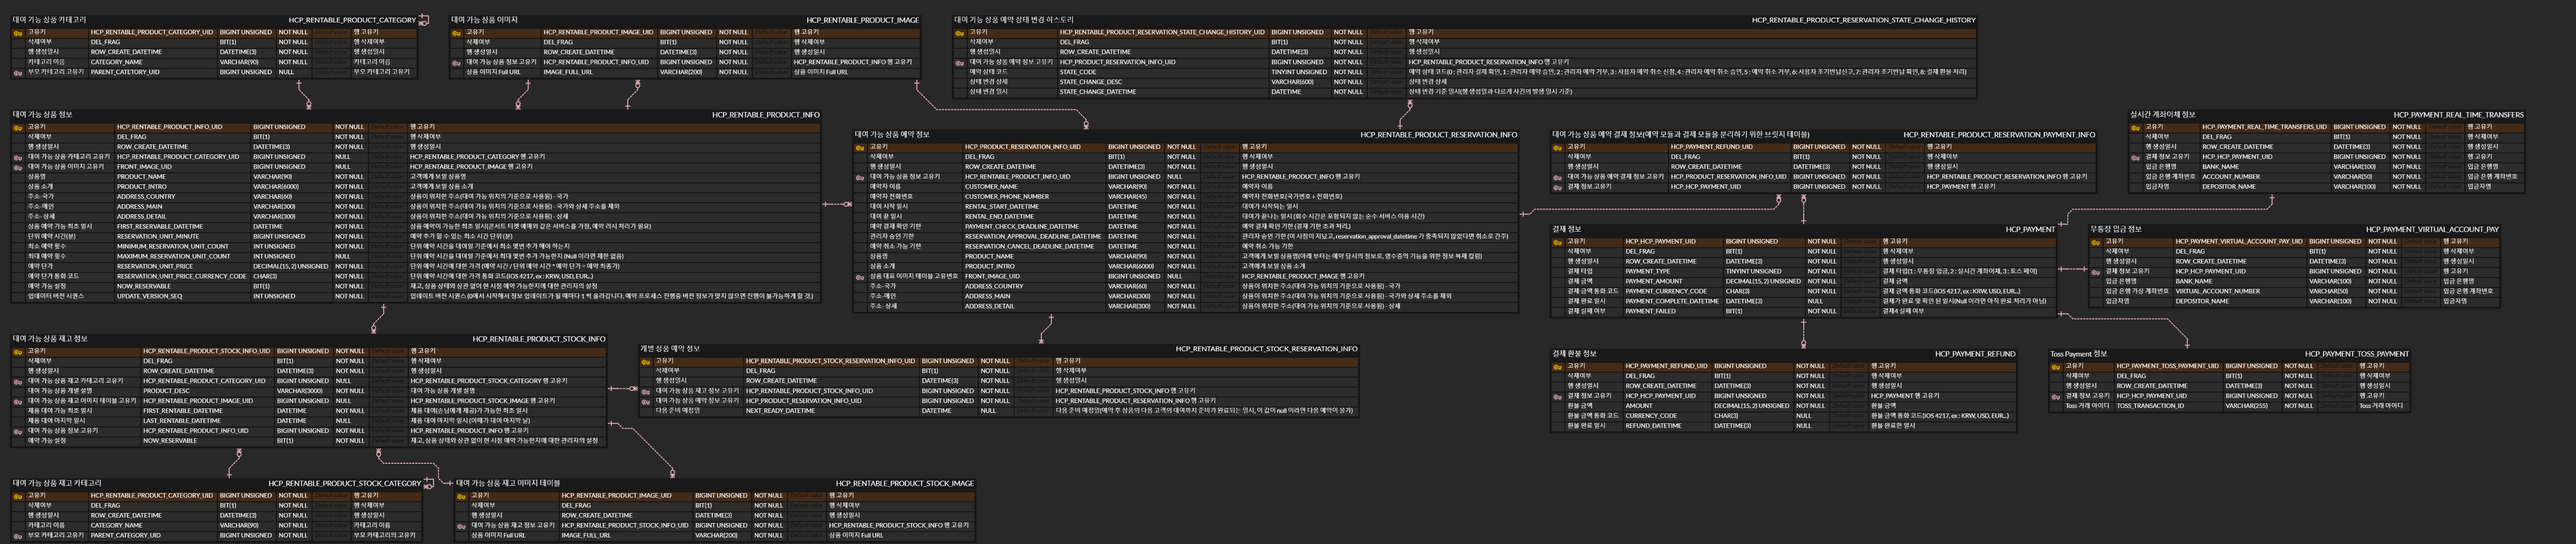
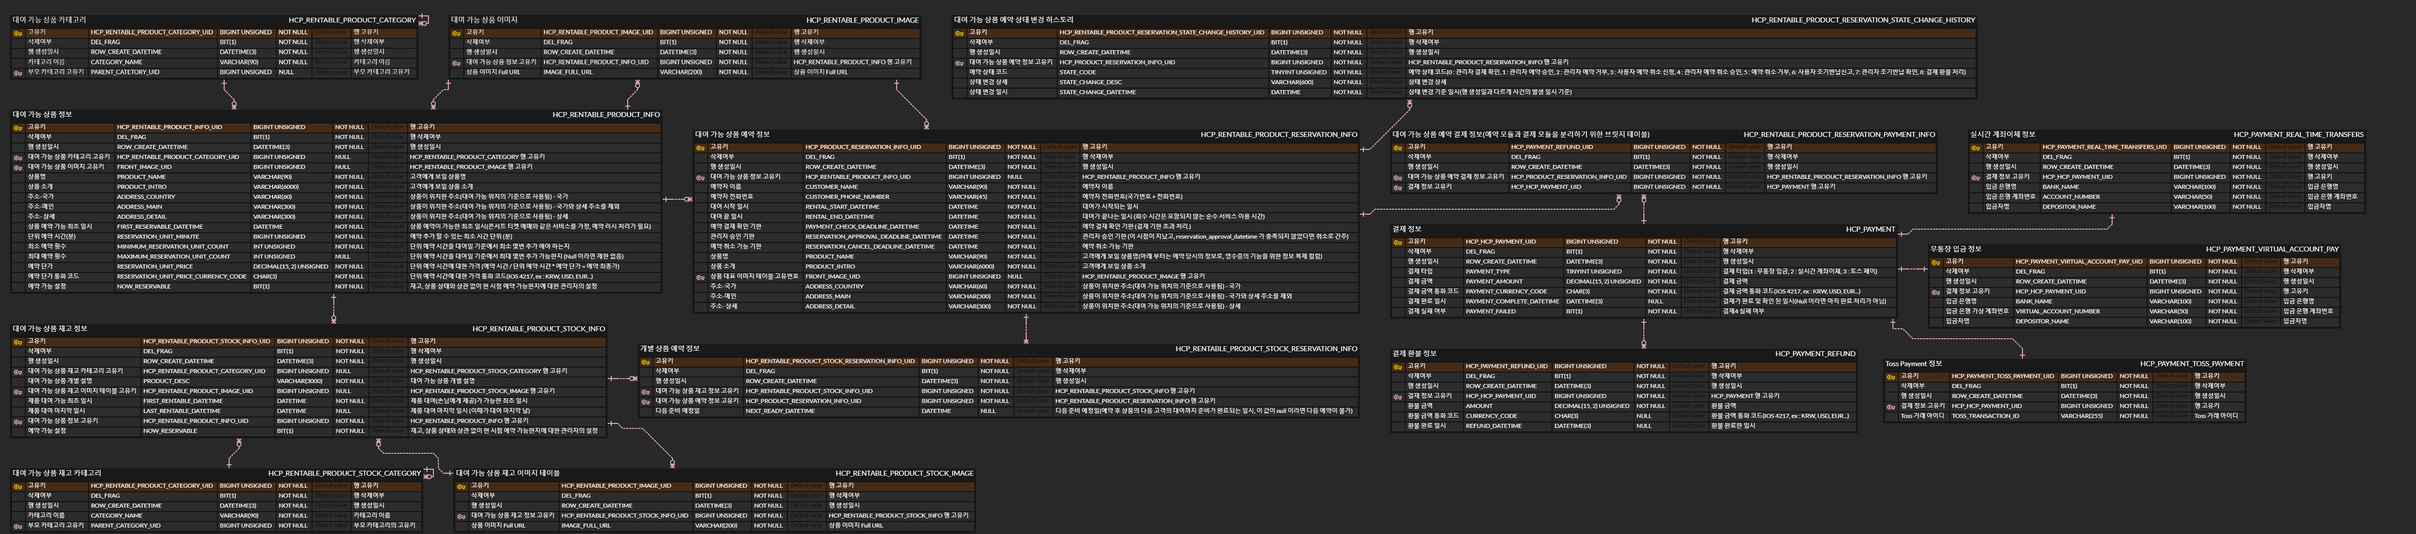
update : 예약 product info 에서 수정 버전 정보 제거(공유락으로 해결하기)

diff --git a/module-service-rental-reservation/src/main/kotlin/com/raillylinker/module_service_rental_reservation/controllers/RentalReservationAdminController.kt b/module-service-rental-reservation/src/main/kotlin/com/raillylinker/module_service_rental_reservation/controllers/RentalReservationAdminController.kt
@@ -402,6 +402,7 @@ class RentalReservationAdminController(
     )
 
 
+    // todo : reservation race condition 처리
     // ----
     @Operation(
         summary = "대여 가능 상품 수정 <ADMIN>",
@@ -559,6 +560,7 @@ class RentalReservationAdminController(
     }
 
 
+    // todo : reservation race condition 처리
     // ----
     @Operation(
         summary = "대여 가능 상품 삭제 <ADMIN>",
@@ -617,6 +619,7 @@ class RentalReservationAdminController(
     }
 
 
+    // todo : reservation race condition 처리
     // ----
     @Operation(
         summary = "대여 가능 상품 추가 예약 가능 설정 수정 <ADMIN>",
@@ -693,6 +696,7 @@ class RentalReservationAdminController(
     )
 
 
+    // todo : reservation race condition 처리
     // ----
     @Operation(
         summary = "대여 가능 상품 최소 예약 횟수 설정 수정 <ADMIN>",
@@ -770,6 +774,7 @@ class RentalReservationAdminController(
     )
 
 
+    // todo : reservation race condition 처리
     // ----
     @Operation(
         summary = "대여 가능 상품 최대 예약 횟수 설정 수정 <ADMIN>",
@@ -1422,6 +1427,7 @@ class RentalReservationAdminController(
     )
 
 
+    // todo : reservation race condition 처리
     // ----
     @Operation(
         summary = "대여 가능 상품 재고 삭제 <ADMIN>",
@@ -1480,6 +1486,7 @@ class RentalReservationAdminController(
     }
 
 
+    // todo : reservation race condition 처리
     // ----
     @Operation(
         summary = "대여 가능 상품 재고 수정 <ADMIN>",
@@ -1592,6 +1599,7 @@ class RentalReservationAdminController(
     )
 
 
+    // todo : reservation race condition 처리
     // ----
     @Operation(
         summary = "대여 가능 상품 재고 추가 예약 가능 설정 수정 <ADMIN>",
@@ -2650,6 +2658,7 @@ class RentalReservationAdminController(
     )
 
 
+    // todo : reservation race condition 처리
     // ----
     @Operation(
         summary = "개별 상품 예약 정보 다음 준비 예정일 수정 <ADMIN>",

diff --git a/module-service-rental-reservation/src/main/kotlin/com/raillylinker/module_service_rental_reservation/jpa_beans/db1_main/entities/Db1_RaillyLinkerCompany_RentableProductInfo.kt b/module-service-rental-reservation/src/main/kotlin/com/raillylinker/module_service_rental_reservation/jpa_beans/db1_main/entities/Db1_RaillyLinkerCompany_RentableProductInfo.kt
@@ -97,11 +97,6 @@ class Db1_RaillyLinkerCompany_RentableProductInfo(
     @Comment("행 삭제일(yyyy_MM_dd_T_HH_mm_ss_SSS_z, 삭제되지 않았다면 /)")
     var rowDeleteDateStr: String = "/"
 
-    @Column(name = "update_version_seq", nullable = false, columnDefinition = "INT UNSIGNED")
-    @ColumnDefault("0")
-    @Comment("업데이트 버전 시퀀스 (0에서 시작해서 정보 업데이트가 될 때마다 1 씩 올라갑니다. 예약 프로세스 진행중 버전 정보가 맞지 않으면 진행이 불가능하게 할 것.)")
-    var updateVersionSeq: Long = 0
-
 
     // ---------------------------------------------------------------------------------------------
     // <중첩 클래스 공간>

diff --git a/module-service-rental-reservation/src/main/kotlin/com/raillylinker/module_service_rental_reservation/controllers/RentalReservationController.kt b/module-service-rental-reservation/src/main/kotlin/com/raillylinker/module_service_rental_reservation/controllers/RentalReservationController.kt
@@ -27,6 +27,7 @@ class RentalReservationController(
 
     // ---------------------------------------------------------------------------------------------
     // <매핑 함수 공간>
+    // todo : reservation race condition 처리
     @Operation(
         summary = "상품 예약 신청하기 <> (더미)", // todo
         description = "상품에 대한 예약 신청을 합니다."

diff --git a/module-service-rental-reservation/src/main/kotlin/com/raillylinker/module_service_rental_reservation/services/RentalReservationAdminService.kt b/module-service-rental-reservation/src/main/kotlin/com/raillylinker/module_service_rental_reservation/services/RentalReservationAdminService.kt
@@ -402,7 +402,6 @@ class RentalReservationAdminService(
                 rentableProductCategoryEntity
             }
 
-        rentableProduct.updateVersionSeq += 1
         rentableProduct.productName = inputVo.productName
         rentableProduct.rentableProductCategory = rentableProductCategory
         rentableProduct.productIntro = inputVo.productIntro
